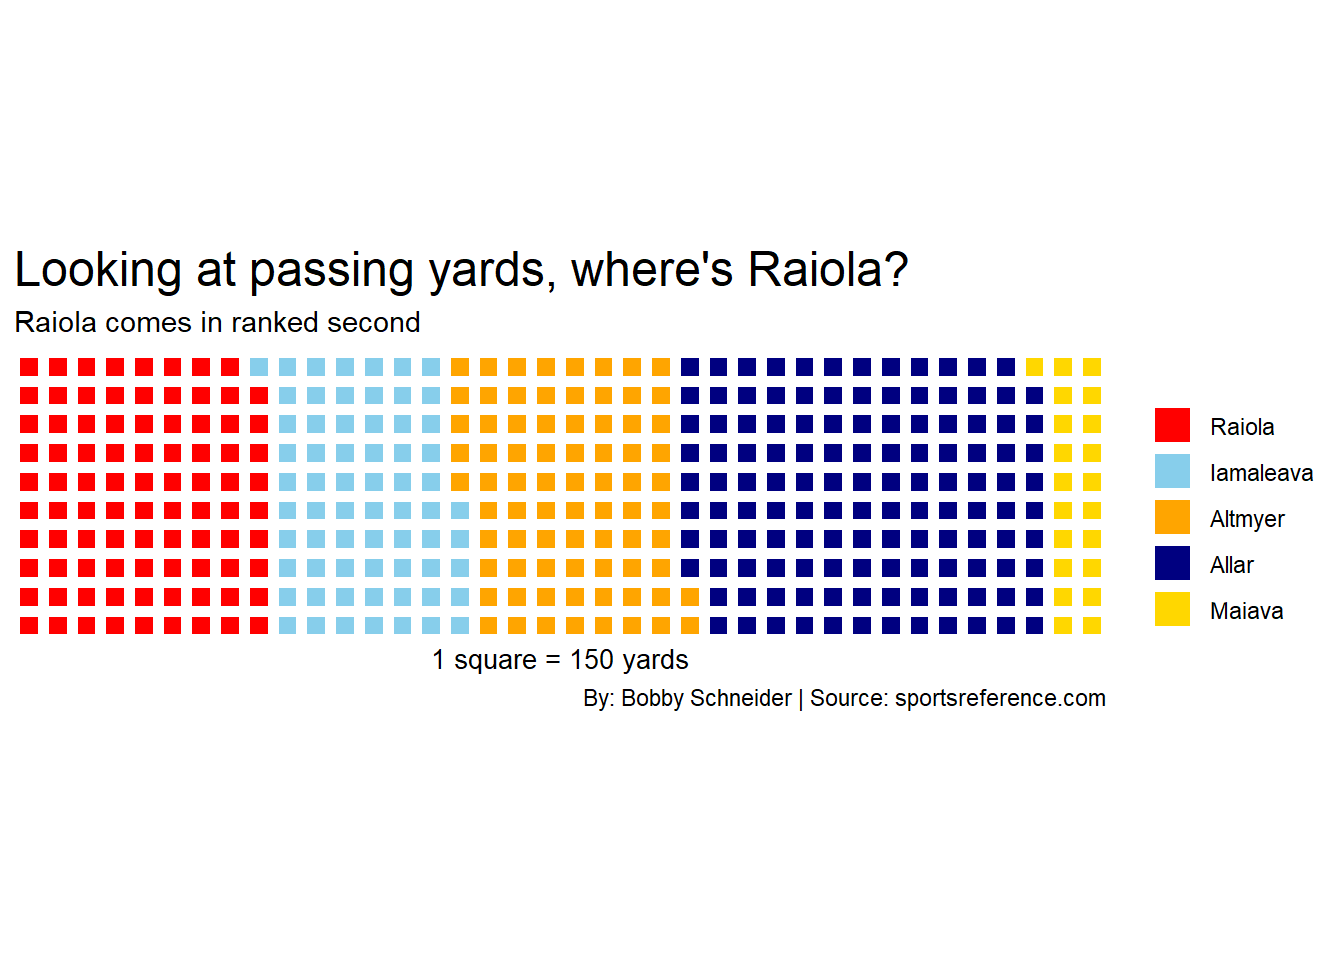
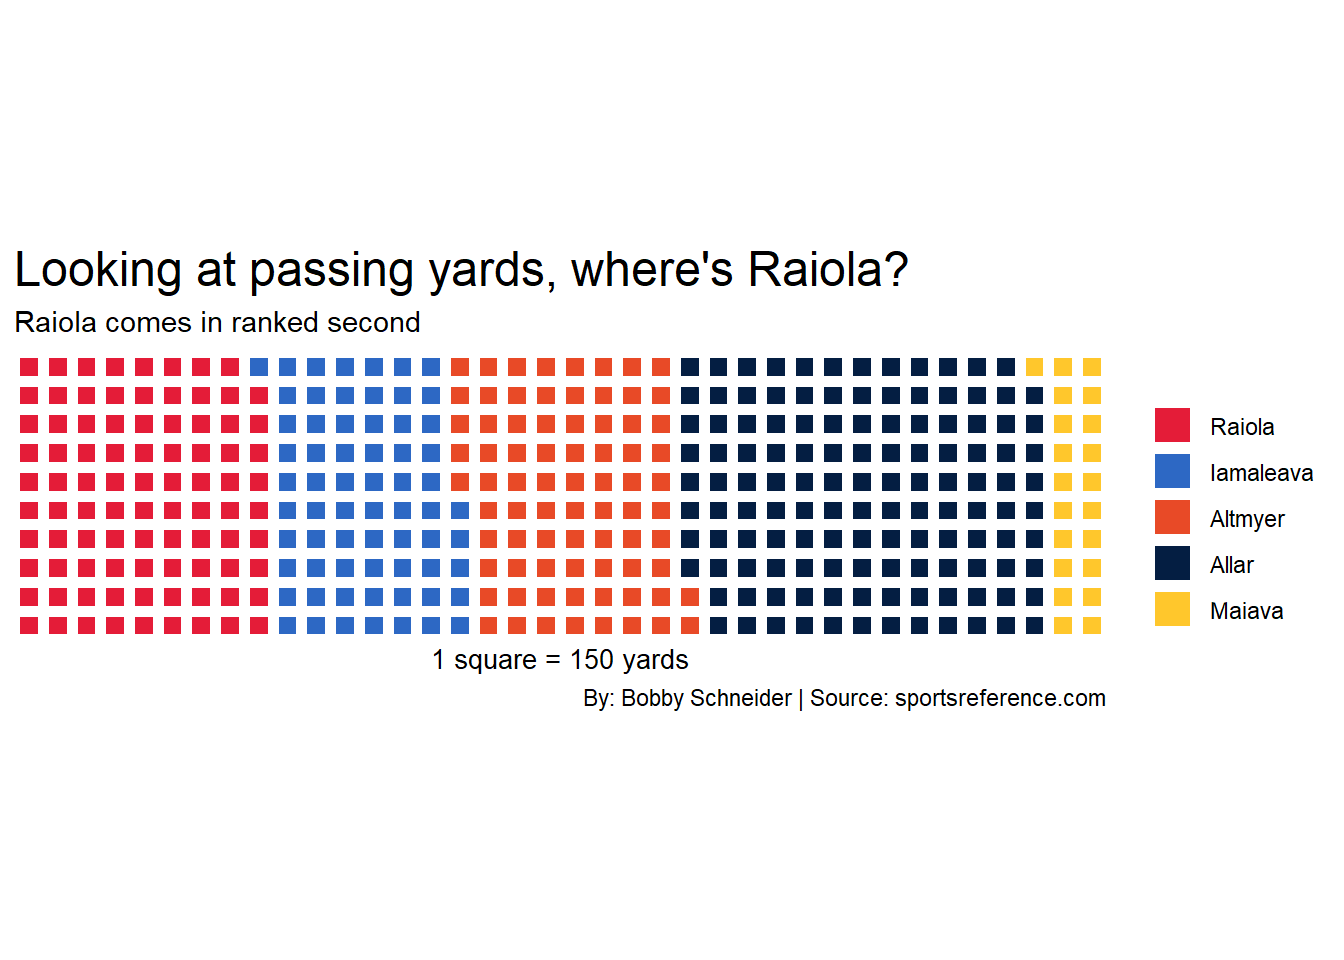
update19

Changed region(s): [[0.0, 0.375, 0.9062, 0.6562]]

diff --git a/posts/dylan-raiola-compared-to-big-ten-qbs/index.html b/posts/dylan-raiola-compared-to-big-ten-qbs/index.html
@@ -202,7 +202,7 @@ pre > code.sourceCode > span > a:first-child::before { text-decoration: underlin
 <span id="cb1-3"><a href="#cb1-3" aria-hidden="true" tabindex="-1"></a>        <span class="at">rows =</span> <span class="dv">10</span>, </span>
 <span id="cb1-4"><a href="#cb1-4" aria-hidden="true" tabindex="-1"></a>        <span class="at">title=</span><span class="st">"Passing Yards"</span>, </span>
 <span id="cb1-5"><a href="#cb1-5" aria-hidden="true" tabindex="-1"></a>        <span class="at">xlab=</span><span class="st">"1 square = 150 yards"</span>, </span>
-<span id="cb1-6"><a href="#cb1-6" aria-hidden="true" tabindex="-1"></a>        <span class="at">colors =</span> <span class="fu">c</span>(<span class="st">"red"</span>, <span class="st">"skyblue"</span>, <span class="st">"orange"</span>, <span class="st">"navy"</span>, <span class="st">"gold"</span>)</span>
+<span id="cb1-6"><a href="#cb1-6" aria-hidden="true" tabindex="-1"></a>        <span class="at">colors =</span> <span class="fu">c</span>(<span class="st">"#E41C38"</span>, <span class="st">"#2D68C4"</span>, <span class="st">"#E84A27"</span>, <span class="st">"#041E42"</span>, <span class="st">"#FFC72C"</span>)</span>
 <span id="cb1-7"><a href="#cb1-7" aria-hidden="true" tabindex="-1"></a>)<span class="sc">+</span></span>
 <span id="cb1-8"><a href="#cb1-8" aria-hidden="true" tabindex="-1"></a><span class="fu">labs</span>(</span>
 <span id="cb1-9"><a href="#cb1-9" aria-hidden="true" tabindex="-1"></a>    <span class="at">title=</span><span class="st">"Looking at passing yards, where's Raiola?"</span>, </span>
@@ -228,19 +228,20 @@ pre > code.sourceCode > span > a:first-child::before { text-decoration: underlin
 <span id="cb2-6"><a href="#cb2-6" aria-hidden="true" tabindex="-1"></a>  ) <span class="sc">+</span> </span>
 <span id="cb2-7"><a href="#cb2-7" aria-hidden="true" tabindex="-1"></a>  <span class="fu">scale_color_manual</span>(</span>
 <span id="cb2-8"><a href="#cb2-8" aria-hidden="true" tabindex="-1"></a>    <span class="at">values =</span> <span class="fu">c</span>(</span>
-<span id="cb2-9"><a href="#cb2-9" aria-hidden="true" tabindex="-1"></a>      <span class="st">"Dylan Raiola"</span> <span class="ot">=</span> <span class="st">"red"</span>,</span>
-<span id="cb2-10"><a href="#cb2-10" aria-hidden="true" tabindex="-1"></a>      <span class="st">"Nico Iamaleava"</span> <span class="ot">=</span> <span class="st">"skyblue"</span>,</span>
-<span id="cb2-11"><a href="#cb2-11" aria-hidden="true" tabindex="-1"></a>      <span class="st">"Luke Altmyer"</span> <span class="ot">=</span> <span class="st">"orange"</span>,</span>
-<span id="cb2-12"><a href="#cb2-12" aria-hidden="true" tabindex="-1"></a>      <span class="st">"Drew Allar"</span> <span class="ot">=</span> <span class="st">"navy"</span>,</span>
-<span id="cb2-13"><a href="#cb2-13" aria-hidden="true" tabindex="-1"></a>      <span class="st">"Jayden Maiava"</span> <span class="ot">=</span> <span class="st">"gold"</span></span>
+<span id="cb2-9"><a href="#cb2-9" aria-hidden="true" tabindex="-1"></a>      <span class="st">"Dylan Raiola"</span> <span class="ot">=</span> <span class="st">"#E41C38"</span>,</span>
+<span id="cb2-10"><a href="#cb2-10" aria-hidden="true" tabindex="-1"></a>      <span class="st">"Nico Iamaleava"</span> <span class="ot">=</span> <span class="st">"#2D68C4"</span>,</span>
+<span id="cb2-11"><a href="#cb2-11" aria-hidden="true" tabindex="-1"></a>      <span class="st">"Luke Altmyer"</span> <span class="ot">=</span> <span class="st">"#E84A27"</span>,</span>
+<span id="cb2-12"><a href="#cb2-12" aria-hidden="true" tabindex="-1"></a>      <span class="st">"Drew Allar"</span> <span class="ot">=</span> <span class="st">"#041E42"</span>,</span>
+<span id="cb2-13"><a href="#cb2-13" aria-hidden="true" tabindex="-1"></a>      <span class="st">"Jayden Maiava"</span> <span class="ot">=</span> <span class="st">"#FFC72C"</span></span>
 <span id="cb2-14"><a href="#cb2-14" aria-hidden="true" tabindex="-1"></a>    )</span>
 <span id="cb2-15"><a href="#cb2-15" aria-hidden="true" tabindex="-1"></a>  ) <span class="sc">+</span></span>
-<span id="cb2-16"><a href="#cb2-16" aria-hidden="true" tabindex="-1"></a>  <span class="fu">theme_minimal</span>()<span class="sc">+</span></span>
-<span id="cb2-17"><a href="#cb2-17" aria-hidden="true" tabindex="-1"></a>  <span class="fu">labs</span>( <span class="at">x =</span> <span class="st">"Completion Percentage"</span>, <span class="at">y =</span> <span class="st">"Attempts"</span>,</span>
-<span id="cb2-18"><a href="#cb2-18" aria-hidden="true" tabindex="-1"></a>    <span class="at">title=</span><span class="st">"Let's look at who has the best completion percentage"</span>, </span>
-<span id="cb2-19"><a href="#cb2-19" aria-hidden="true" tabindex="-1"></a>    <span class="at">subtitle =</span> <span class="st">"Look at that, Raiola has the most attempts and still the highest percentage"</span>,</span>
-<span id="cb2-20"><a href="#cb2-20" aria-hidden="true" tabindex="-1"></a>    <span class="at">caption =</span> <span class="st">"By: Bobby Schneider | Source: sportsreference.com"</span></span>
-<span id="cb2-21"><a href="#cb2-21" aria-hidden="true" tabindex="-1"></a>  )</span></code><button title="Copy to Clipboard" class="code-copy-button"><i class="bi"></i></button></pre></div>
+<span id="cb2-16"><a href="#cb2-16" aria-hidden="true" tabindex="-1"></a>  <span class="fu">scale_x_continuous</span>(<span class="at">labels =</span> scales<span class="sc">::</span><span class="fu">label_number</span>(<span class="at">suffix =</span> <span class="st">"%"</span>)) <span class="sc">+</span></span>
+<span id="cb2-17"><a href="#cb2-17" aria-hidden="true" tabindex="-1"></a>  <span class="fu">theme_minimal</span>()<span class="sc">+</span></span>
+<span id="cb2-18"><a href="#cb2-18" aria-hidden="true" tabindex="-1"></a>  <span class="fu">labs</span>( <span class="at">x =</span> <span class="st">"Completion Percentage"</span>, <span class="at">y =</span> <span class="st">"Attempts"</span>,</span>
+<span id="cb2-19"><a href="#cb2-19" aria-hidden="true" tabindex="-1"></a>    <span class="at">title=</span><span class="st">"Let's look at who has the best completion percentage"</span>, </span>
+<span id="cb2-20"><a href="#cb2-20" aria-hidden="true" tabindex="-1"></a>    <span class="at">subtitle =</span> <span class="st">"Look at that, Raiola has the most attempts and still the highest percentage"</span>,</span>
+<span id="cb2-21"><a href="#cb2-21" aria-hidden="true" tabindex="-1"></a>    <span class="at">caption =</span> <span class="st">"By: Bobby Schneider | Source: sportsreference.com"</span></span>
+<span id="cb2-22"><a href="#cb2-22" aria-hidden="true" tabindex="-1"></a>  )</span></code><button title="Copy to Clipboard" class="code-copy-button"><i class="bi"></i></button></pre></div>
 </details>
 <div class="cell-output-display">
 <div>
@@ -291,11 +292,11 @@ pre > code.sourceCode > span > a:first-child::before { text-decoration: underlin
 <span id="cb4-10"><a href="#cb4-10" aria-hidden="true" tabindex="-1"></a>  ) <span class="sc">+</span> </span>
 <span id="cb4-11"><a href="#cb4-11" aria-hidden="true" tabindex="-1"></a>  <span class="fu">scale_color_manual</span>(</span>
 <span id="cb4-12"><a href="#cb4-12" aria-hidden="true" tabindex="-1"></a>    <span class="at">values =</span> <span class="fu">c</span>(</span>
-<span id="cb4-13"><a href="#cb4-13" aria-hidden="true" tabindex="-1"></a>      <span class="st">"Dylan Raiola"</span> <span class="ot">=</span> <span class="st">"red"</span>,</span>
-<span id="cb4-14"><a href="#cb4-14" aria-hidden="true" tabindex="-1"></a>      <span class="st">"Nico Iamaleava"</span> <span class="ot">=</span> <span class="st">"skyblue"</span>,</span>
-<span id="cb4-15"><a href="#cb4-15" aria-hidden="true" tabindex="-1"></a>      <span class="st">"Luke Altmyer"</span> <span class="ot">=</span> <span class="st">"orange"</span>,</span>
-<span id="cb4-16"><a href="#cb4-16" aria-hidden="true" tabindex="-1"></a>      <span class="st">"Drew Allar"</span> <span class="ot">=</span> <span class="st">"navy"</span>,</span>
-<span id="cb4-17"><a href="#cb4-17" aria-hidden="true" tabindex="-1"></a>      <span class="st">"Jayden Maiava"</span> <span class="ot">=</span> <span class="st">"gold"</span></span>
+<span id="cb4-13"><a href="#cb4-13" aria-hidden="true" tabindex="-1"></a>      <span class="st">"Dylan Raiola"</span> <span class="ot">=</span> <span class="st">"#E41C38"</span>,</span>
+<span id="cb4-14"><a href="#cb4-14" aria-hidden="true" tabindex="-1"></a>      <span class="st">"Nico Iamaleava"</span> <span class="ot">=</span> <span class="st">"#2D68C4"</span>,</span>
+<span id="cb4-15"><a href="#cb4-15" aria-hidden="true" tabindex="-1"></a>      <span class="st">"Luke Altmyer"</span> <span class="ot">=</span> <span class="st">"#E84A27"</span>,</span>
+<span id="cb4-16"><a href="#cb4-16" aria-hidden="true" tabindex="-1"></a>      <span class="st">"Drew Allar"</span> <span class="ot">=</span> <span class="st">"#041E42"</span>,</span>
+<span id="cb4-17"><a href="#cb4-17" aria-hidden="true" tabindex="-1"></a>      <span class="st">"Jayden Maiava"</span> <span class="ot">=</span> <span class="st">"#FFC72C"</span></span>
 <span id="cb4-18"><a href="#cb4-18" aria-hidden="true" tabindex="-1"></a>    )</span>
 <span id="cb4-19"><a href="#cb4-19" aria-hidden="true" tabindex="-1"></a>  ) <span class="sc">+</span></span>
 <span id="cb4-20"><a href="#cb4-20" aria-hidden="true" tabindex="-1"></a>  <span class="fu">labs</span>(</span>

diff --git a/index.html b/index.html
@@ -205,7 +205,7 @@ window.Quarto = {
 
 <div class="quarto-listing quarto-listing-container-default" id="listing-listing">
 <div class="list quarto-listing-default">
[2 lines of base64/hex data omitted]
 <div class="thumbnail">
 <p><a href="./posts/dylan-raiola-compared-to-big-ten-qbs/index.html" class="no-external"></a></p><a href="./posts/dylan-raiola-compared-to-big-ten-qbs/index.html" class="no-external">
 <p><img loading="lazy" src="./posts/dylan-raiola-compared-to-big-ten-qbs/Raiola_Graphic.png" class="thumbnail-image"></p>
